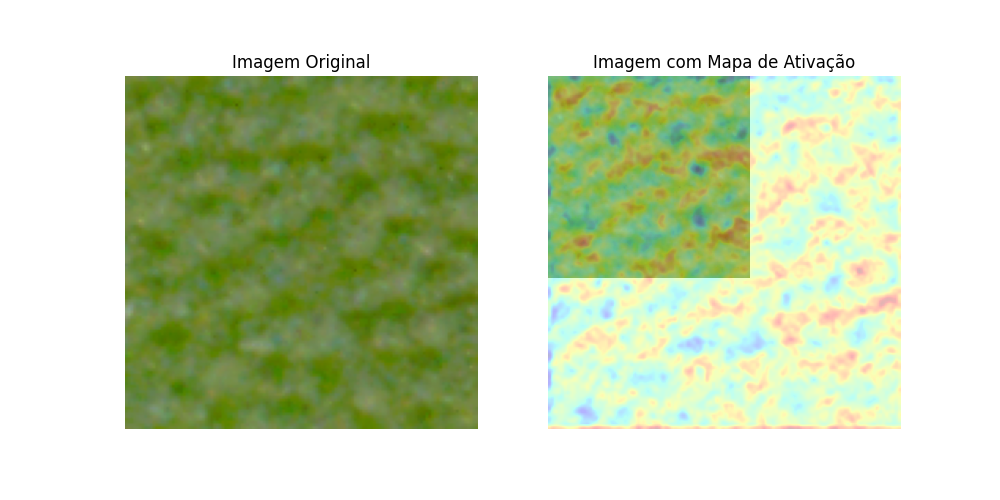
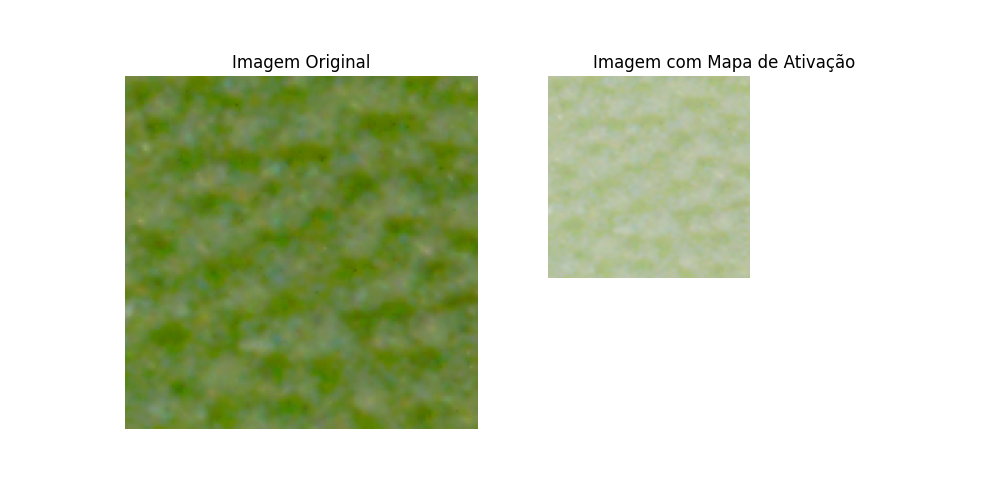
Teste

Changed region(s): [[0.527, 0.15, 0.899, 0.87]]

diff --git a/model.py b/model.py
@@ -91,10 +91,12 @@ for i in range(len(images_tensor)):
         activation_map = activation.squeeze(0).mean(dim=0).cpu().numpy()  # Calcula a média dos mapas de ativação
 
         # Normaliza o mapa de ativação para [0, 1] para visualização
+        activation_map = np.clip(activation_map, 0, np.percentile(activation_map, 95))  # Ignora 5% das ativações mais baixas
         activation_map = (activation_map - activation_map.min()) / (activation_map.max() - activation_map.min())
 
+        # Redimensiona o mapa de ativação para a resolução da imagem original
         activation_map_resized = Image.fromarray(activation_map)
-        activation_map_resized = activation_map_resized.resize((224, 224), Image.BICUBIC)
+        activation_map_resized = activation_map_resized.resize((224, 224), Image.BILINEAR)
         activation_map_resized = np.array(activation_map_resized)
 
         # Exibir a imagem original e o mapa de ativação sobreposto
@@ -106,14 +108,15 @@ for i in range(len(images_tensor)):
         axes[0].set_title('Imagem Original')
 
         # Subplot 2: Imagem com mapa de ativação sobreposto
-        axes[1].imshow(original_images[i], alpha=0.8)
-        axes[1].imshow(activation_map_resized, cmap='jet', alpha=0.3)  # Sobrepõe o mapa de ativação
+        alpha = 0.5  # Ajuste o valor de alpha (0.0 para completamente transparente, 1.0 para completamente opaco)
+        axes[1].imshow(original_images[i], alpha=1 - alpha)  # Imagem com opacidade ajustada
+        axes[1].imshow(activation_map_resized, cmap='jet', alpha=alpha)  # Mapa de ativação sobreposto com alpha ajustado
         axes[1].axis('off')
         axes[1].set_title('Imagem com Mapa de Ativação')
-                # Salvar a imagem do mapa de ativação
+
+        # Salvar a imagem do mapa de ativação
         activation_map_path = os.path.join(output_dir, f'{filenames[i]}_activation_map.png')
         plt.savefig(activation_map_path)
-        print(f"Tamanho da ativação: {activation_map.shape}")
         plt.close(fig)
 
 print("Mapas gerados")
